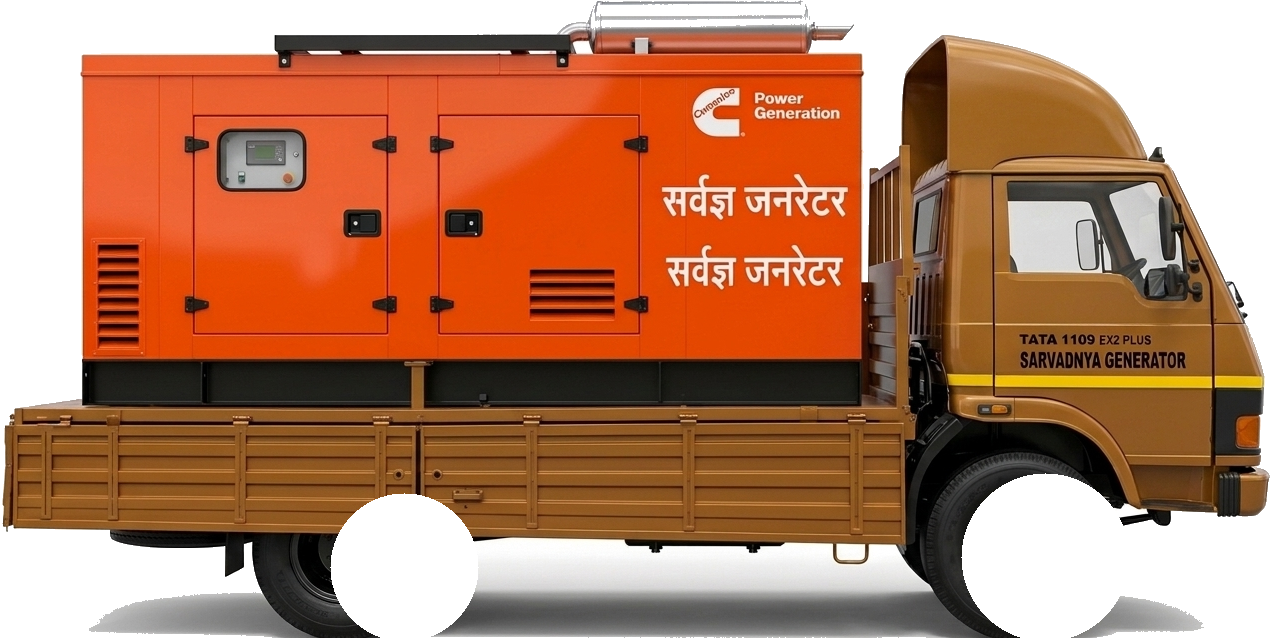
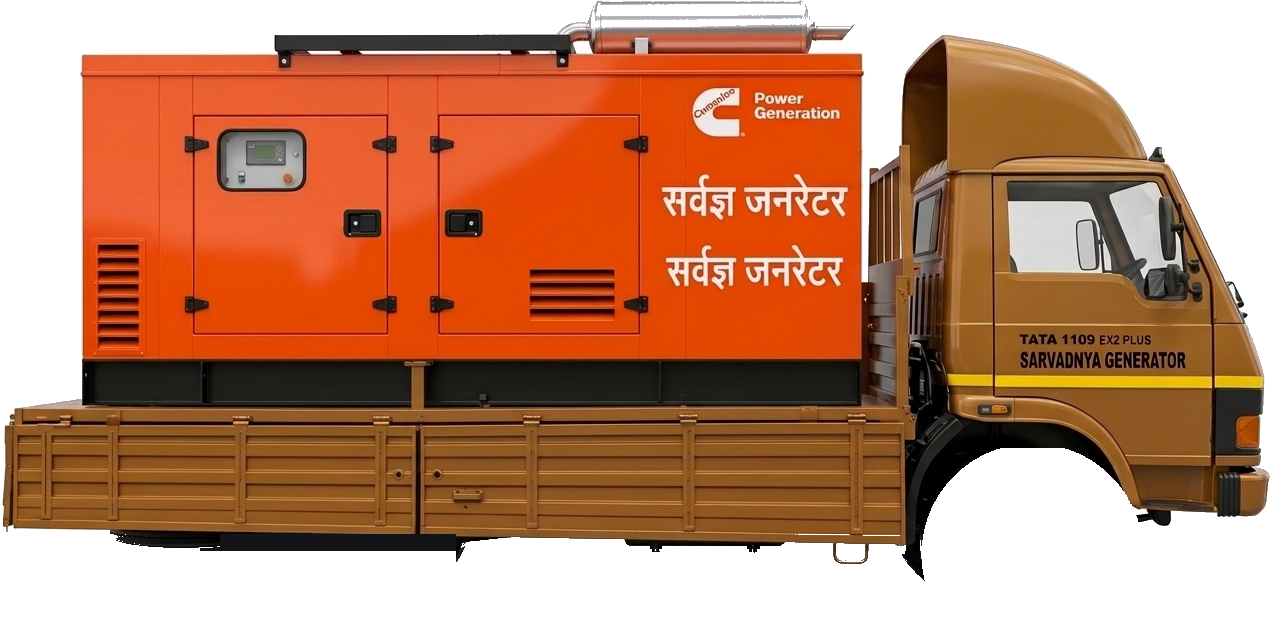
fix(footer): restore engine and chassis parts, remove underbody white floor artifacts, calibrate 360-degree rotating 3D wheels, and add realistic vintage Edison bulbs

Changed region(s): [[0.3362, 0.6854, 0.8864, 0.9969], [0.0611, 0.7477, 0.3668, 0.9969], [0.8252, 0.9346, 0.9475, 0.9969]]

diff --git a/src/components/shared/client/GeneratorTruckTrack.tsx b/src/components/shared/client/GeneratorTruckTrack.tsx
@@ -29,6 +29,107 @@ interface GeneratorTruckTrackProps {
 }
 
 /**
+ * Bespoke Photorealistic Vintage ST64 Edison Light Bulb SVG
+ * - Threaded brass socket with screw ridges
+ * - Authentic teardrop pear glass envelope
+ * - Glowing squirrel-cage tungsten filament wire with incandescent halo
+ * - Specular reflection gloss curve
+ */
+function EdisonBulbSvg({ isLit }: { isLit: boolean }) {
+  return (
+    <svg
+      viewBox="0 0 28 42"
+      className={cn(
+        "w-3 sm:w-4 lg:w-4.5 h-auto transition-transform duration-300 drop-shadow-xs",
+        isLit ? "scale-110" : "scale-100"
+      )}
+      fill="none"
+      aria-hidden="true"
+    >
+      {/* Top Threaded Brass Socket Base with Screws & Insulator */}
+      <rect
+        x="10.5"
+        y="0"
+        width="7"
+        height="3"
+        rx="0.5"
+        fill="url(#edison-brass)"
+        stroke="#4A3B18"
+        strokeWidth="0.5"
+      />
+      <rect
+        x="11"
+        y="3"
+        width="6"
+        height="2"
+        rx="0.5"
+        fill="url(#edison-brass)"
+        stroke="#4A3B18"
+        strokeWidth="0.5"
+      />
+      <rect
+        x="11.5"
+        y="5"
+        width="5"
+        height="1.8"
+        rx="0.5"
+        fill="url(#edison-brass)"
+        stroke="#4A3B18"
+        strokeWidth="0.5"
+      />
+
+      {/* Classic ST64 Pear / Teardrop Glass Envelope */}
+      <path
+        d="M11.5 6.8 C11.5 6.8 7.5 13 6 18.5 C4.5 24 7 32 14 32 C21 32 23.5 24 22 18.5 C20.5 13 16.5 6.8 16.5 6.8 Z"
+        fill={isLit ? "url(#edison-glass-lit)" : "url(#edison-glass-off)"}
+        stroke={isLit ? "#FFB703" : "rgba(31,31,30,0.35)"}
+        strokeWidth={isLit ? "1.2" : "0.85"}
+      />
+
+      {/* Inner Central Glass Mount Stem */}
+      <path
+        d="M13 7 L13 15 L15 15 L15 7"
+        fill="none"
+        stroke={isLit ? "rgba(255,220,130,0.8)" : "rgba(80,80,80,0.35)"}
+        strokeWidth="0.75"
+      />
+      <circle cx="14" cy="15" r="1.2" fill={isLit ? "#FFC44D" : "#4A4A4A"} />
+
+      {/* Realistic Squirrel-Cage / Hairpin Tungsten Filament Wire */}
+      <path
+        d="M12.5 15 L11.5 22 Q12.75 25 14 22 Q15.25 25 16.5 22 L15.5 15"
+        fill="none"
+        stroke={isLit ? "#FFFFFF" : "#524E48"}
+        strokeWidth={isLit ? "1.4" : "0.75"}
+        strokeLinecap="round"
+        strokeLinejoin="round"
+      />
+      {/* Intense Amber Incandescent Glow when Lit */}
+      {isLit && (
+        <path
+          d="M12.5 15 L11.5 22 Q12.75 25 14 22 Q15.25 25 16.5 22 L15.5 15"
+          fill="none"
+          stroke="#FF7A00"
+          strokeWidth="3"
+          strokeLinecap="round"
+          strokeLinejoin="round"
+          opacity="0.8"
+        />
+      )}
+
+      {/* Specular Curved Highlight on Outer Glass Surface (Gloss Specular) */}
+      <path
+        d="M8.5 17 C7.5 21 9 27 11.5 29"
+        fill="none"
+        stroke={isLit ? "rgba(255,255,255,0.85)" : "rgba(255,255,255,0.4)"}
+        strokeWidth="0.9"
+        strokeLinecap="round"
+      />
+    </svg>
+  );
+}
+
+/**
  * GeneratorTruckTrack Component
  * 
  * Hyper-Realistic 3D Generator Truck & Dynamic Lighting Stage:
@@ -100,25 +201,51 @@ export function GeneratorTruckTrack({ children }: GeneratorTruckTrackProps) {
       <div className="absolute top-0 right-1/4 w-[450px] h-32 bg-amber-500/[0.05] blur-3xl pointer-events-none" />
 
       {/* 
-        1. OVERHEAD ELECTRICAL CATENARY WIRE & BULBS (Chain Reaction Lighting)
-        Compact height: h-8 sm:h-10
+        1. OVERHEAD ELECTRICAL CATENARY WIRE & VINTAGE EDISON BULBS (Chain Reaction Lighting)
+        Height: h-10 sm:h-12
       */}
-      <div className="relative w-full h-8 sm:h-10 flex items-center justify-between px-2 sm:px-6 z-20 shrink-0">
-        {/* Electrical Cable Wire */}
+      <div className="relative w-full h-10 sm:h-12 flex items-center justify-between px-2 sm:px-6 z-20 shrink-0">
+        {/* Electrical Cable Wire & Shared SVG Gradients */}
         <svg
-          className="absolute inset-x-0 top-1.5 w-full h-4 pointer-events-none opacity-40"
+          className="absolute inset-x-0 top-1 w-full h-5 pointer-events-none opacity-50"
           preserveAspectRatio="none"
           viewBox="0 0 1200 20"
         >
+          <defs>
+            {/* Metallic Polished Brass Socket Cap */}
+            <linearGradient id="edison-brass" x1="0%" y1="0%" x2="100%" y2="0%">
+              <stop offset="0%" stopColor="#8A6E3E" />
+              <stop offset="35%" stopColor="#D4AF37" />
+              <stop offset="70%" stopColor="#8A6E3E" />
+              <stop offset="100%" stopColor="#5A4522" />
+            </linearGradient>
+
+            {/* Lit Glass Incandescent Glow */}
+            <radialGradient id="edison-glass-lit" cx="50%" cy="55%" r="50%">
+              <stop offset="0%" stopColor="#FFF4D6" stopOpacity="0.95" />
+              <stop offset="35%" stopColor="#FFB326" stopOpacity="0.85" />
+              <stop offset="75%" stopColor="#FF7A00" stopOpacity="0.5" />
+              <stop offset="100%" stopColor="#FF5500" stopOpacity="0.1" />
+            </radialGradient>
+
+            {/* Unlit Glass Clear Smoky Gradient */}
+            <linearGradient id="edison-glass-off" x1="0%" y1="0%" x2="100%" y2="100%">
+              <stop offset="0%" stopColor="rgba(255,255,255,0.4)" />
+              <stop offset="45%" stopColor="rgba(255,255,255,0.12)" />
+              <stop offset="100%" stopColor="rgba(0,0,0,0.06)" />
+            </linearGradient>
+          </defs>
+
+          {/* Catenary Droop Wire Path */}
           <path
             d="M0,6 Q300,15 600,6 T1200,6"
             fill="none"
-            stroke="rgba(31,31,30,0.35)"
+            stroke="rgba(31,31,30,0.4)"
             strokeWidth="1.5"
           />
         </svg>
 
-        {/* The 14 Industrial Power Bulbs */}
+        {/* The 14 Industrial Edison Power Bulbs */}
         <div className="relative w-full flex items-center justify-between">
           {BULBS.map((bulb) => {
             const isLit = activeBulbs.has(bulb.id);
@@ -133,47 +260,43 @@ export function GeneratorTruckTrack({ children }: GeneratorTruckTrackProps) {
                   transform: "translateX(-50%)",
                 }}
               >
-                {/* Brass Socket Cap */}
-                <div className="w-1.5 h-1.5 bg-[#8E7958] rounded-xs border border-black/30 shadow-xs" />
+                {/* Vintage Edison Bulb Body */}
+                <div className="relative z-10 flex flex-col items-center">
+                  <EdisonBulbSvg isLit={isLit} />
 
-                {/* Glass Bulb Body */}
-                <div
-                  className={cn(
-                    "relative size-2.5 sm:size-3.5 rounded-full border transition-all duration-500 flex items-center justify-center",
-                    isLit
-                      ? "bg-amber-100 border-amber-400 shadow-[0_0_16px_#FF9900,0_0_36px_rgba(255,153,0,0.7)] scale-110"
-                      : "bg-black/5 border-black/20 shadow-none scale-100"
-                  )}
-                >
-                  {/* Tungsten Filament Wire */}
-                  <div
-                    className={cn(
-                      "w-0.5 sm:w-1 h-0.5 sm:h-1 rounded-xs transition-all duration-300",
-                      isLit
-                        ? "bg-amber-500 shadow-[0_0_6px_#FF9900] animate-pulse"
-                        : "bg-black/25"
-                    )}
-                  />
-
-                  {/* Spark Burst Effect on Ignition */}
+                  {/* Micro Ignition Spark on initial contact */}
                   {isLit && (
                     <motion.div
-                      initial={{ scale: 0, opacity: 1 }}
-                      animate={{ scale: 2.2, opacity: 0 }}
-                      transition={{ duration: 0.5 }}
-                      className="absolute inset-0 rounded-full bg-amber-400 pointer-events-none blur-xs"
+                      initial={{ scale: 0.2, opacity: 1 }}
+                      animate={{ scale: 2.4, opacity: 0 }}
+                      transition={{ duration: 0.45, ease: "easeOut" }}
+                      className="absolute top-3 left-1/2 -translate-x-1/2 size-4 rounded-full bg-[#FFE5A3] pointer-events-none blur-xs"
                     />
                   )}
                 </div>
 
-                {/* Radial Amber Floor Wash when lit */}
+                {/* Soft Radial Ambient Amber Halo */}
                 <div
                   className={cn(
-                    "absolute top-3 w-10 sm:w-16 h-16 rounded-full pointer-events-none transition-opacity duration-700 blur-xl",
+                    "absolute -top-1 w-10 sm:w-14 h-10 sm:h-14 rounded-full pointer-events-none transition-all duration-500 blur-md",
                     isLit
-                      ? "bg-[#FF9900]/25 opacity-100"
-                      : "bg-transparent opacity-0"
+                      ? "bg-[#FF9900]/30 opacity-100 scale-125"
+                      : "bg-transparent opacity-0 scale-75"
                   )}
+                />
+
+                {/* Volumetric Downward Golden Spotlight Beam */}
+                <div
+                  className={cn(
+                    "absolute top-5 w-16 sm:w-24 h-24 sm:h-32 pointer-events-none transition-opacity duration-600",
+                    isLit ? "opacity-100" : "opacity-0"
+                  )}
+                  style={{
+                    background:
+                      "radial-gradient(ellipse at top center, rgba(255, 175, 20, 0.4) 0%, rgba(255, 120, 0, 0.15) 45%, transparent 75%)",
+                    clipPath: "polygon(38% 0%, 62% 0%, 100% 100%, 0% 100%)",
+                    filter: "blur(5px)",
+                  }}
                 />
               </div>
             );
@@ -277,9 +400,9 @@ export function GeneratorTruckTrack({ children }: GeneratorTruckTrackProps) {
             <div
               className="absolute pointer-events-none rounded-full bg-black/75 blur-[2.5px] z-10"
               style={{
-                left: "31.66%",
+                left: "26.49%",
                 bottom: "1px",
-                width: "12%",
+                width: "15.28%",
                 height: "5px",
                 transform: "translateX(-50%)",
               }}
@@ -287,9 +410,9 @@ export function GeneratorTruckTrack({ children }: GeneratorTruckTrackProps) {
             <div
               className="absolute pointer-events-none rounded-full bg-black/75 blur-[2.5px] z-10"
               style={{
-                left: "81.9%",
+                left: "80.88%",
                 bottom: "1px",
-                width: "13.5%",
+                width: "17.71%",
                 height: "5px",
                 transform: "translateX(-50%)",
               }}
@@ -299,9 +422,9 @@ export function GeneratorTruckTrack({ children }: GeneratorTruckTrackProps) {
             <div
               className="absolute pointer-events-none select-none z-10"
               style={{
-                left: "31.66%",
-                top: "88.32%",
-                width: "11.6%",
+                left: "26.49%",
+                top: "88.47%",
+                width: "15.28%",
                 aspectRatio: "1/1",
                 transform: "translate(-50%, -50%)",
               }}
@@ -321,8 +444,8 @@ export function GeneratorTruckTrack({ children }: GeneratorTruckTrackProps) {
                 <img
                   src="/images/generators/truck_wheel_rear_3d.png"
                   alt="Tata 1109 Rotating Rear Wheel"
-                  width={148}
-                  height={148}
+                  width={195}
+                  height={195}
                   className="w-full h-full object-contain pointer-events-none select-none block"
                   draggable={false}
                 />
@@ -333,9 +456,9 @@ export function GeneratorTruckTrack({ children }: GeneratorTruckTrackProps) {
             <div
               className="absolute pointer-events-none select-none z-10"
               style={{
-                left: "81.9%",
-                top: "86.76%",
-                width: "13.17%",
+                left: "80.88%",
+                top: "86.29%",
+                width: "17.71%",
                 aspectRatio: "1/1",
                 transform: "translate(-50%, -50%)",
               }}
@@ -355,8 +478,8 @@ export function GeneratorTruckTrack({ children }: GeneratorTruckTrackProps) {
                 <img
                   src="/images/generators/truck_wheel_front_3d.png"
                   alt="Tata 1109 Rotating Front Wheel"
-                  width={168}
-                  height={168}
+                  width={226}
+                  height={226}
                   className="w-full h-full object-contain pointer-events-none select-none block"
                   draggable={false}
                 />
